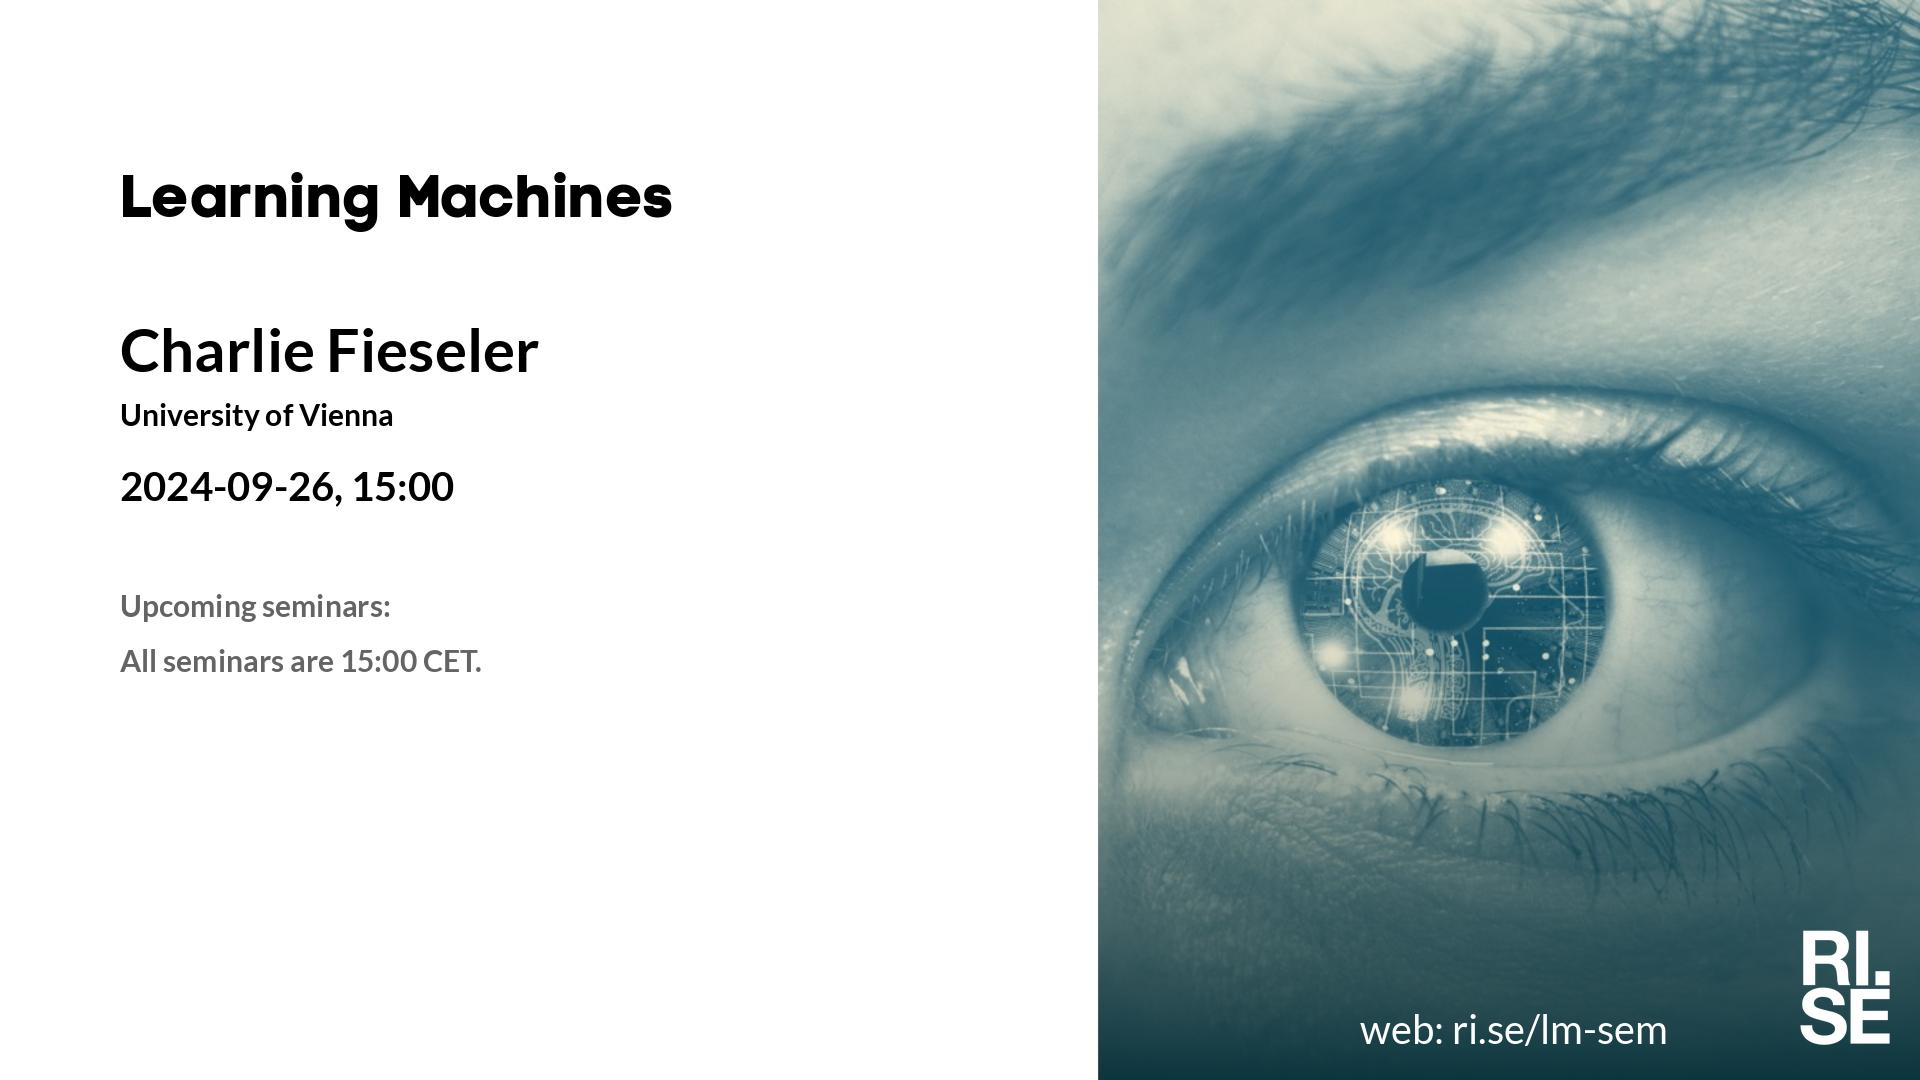
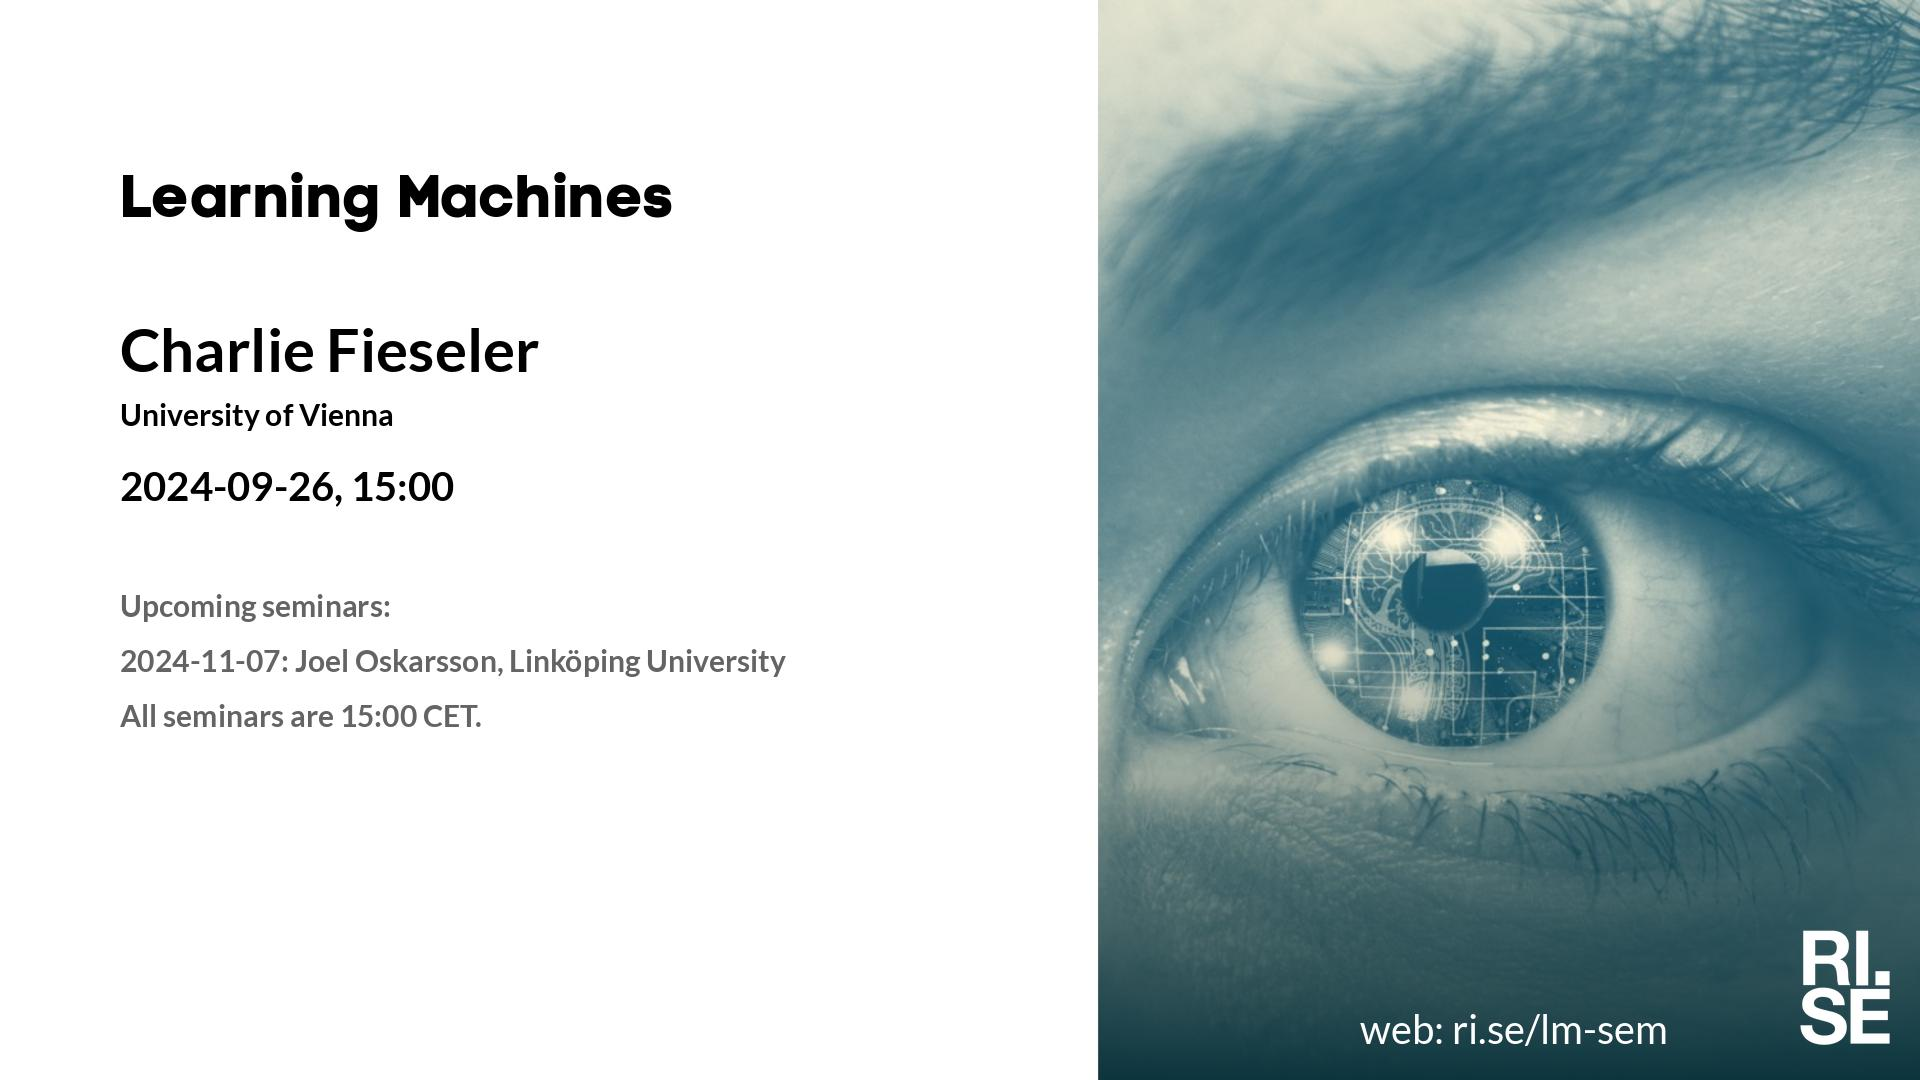
Updated plan on web site.

Changed region(s): [[0.0625, 0.5806, 0.4062, 0.6722]]

diff --git a/lm/index.md b/lm/index.md
@@ -15,7 +15,7 @@ table {border-collapse: collapse;}
 |  2024-09-12  |  [Vésteinn Snæbjarnarson, Pioneer Centre for Artificial Intelligence](2024-09-12.md)  |  [photo](photo-vesteinn-snaebjarnarson.jpg)  |  [social media ](social-media-vesteinn-snaebjarnarson.jpg)  |  [meeting backdrop ](meeting-backdrop-vesteinn-snaebjarnarson.jpg)  |  [youtube thumbnail ](youtube-thumbnail-vesteinn-snaebjarnarson.jpg)  |  S~~TAB~~P  |
 |  2024-09-19  |  [Mélisande Teng, MILA and Universite de Montreal](2024-09-19.md)  |    |  [social media ](social-media-melisande-teng.jpg)  |  [meeting backdrop ](meeting-backdrop-melisande-teng.jpg)  |  [youtube thumbnail ](youtube-thumbnail-melisande-teng.jpg)  |  S~~TABP~~  |
 |  2024-09-26  |  [Charlie Fieseler, University of Vienna](2024-09-26.md)  |    |  [social media ](social-media-charlie-fieseler.jpg)  |  [meeting backdrop ](meeting-backdrop-charlie-fieseler.jpg)  |  [youtube thumbnail ](youtube-thumbnail-charlie-fieseler.jpg)  |  S~~TABP~~  |
-| <span style="color:grey"> 2024-10-03 </span> | <span style="color:grey"> Milena P. ? </span> | <span style="color:grey">  </span> | <span style="color:grey">  </span> | <span style="color:grey">  </span> | <span style="color:grey">  </span> | <span style="color:grey"> S~~TABP~~ </span> |
+| <span style="color:purple"> 2024-10-03 </span> | <span style="color:purple"> *Up for grabs!!!* </span> | <span style="color:purple">  </span> | <span style="color:purple">  </span> | <span style="color:purple">  </span> | <span style="color:purple">  </span> | <span style="color:purple"> ~~STABP~~ </span> |
 | <span style="color:grey"> 2024-10-10 </span> | <span style="color:grey"> Alp K. ? </span> | <span style="color:grey">  </span> | <span style="color:grey">  </span> | <span style="color:grey">  </span> | <span style="color:grey">  </span> | <span style="color:grey"> S~~TABP~~ </span> |
 | <span style="color:grey"> 2024-10-17 </span> | <span style="color:grey"> Matthias O. ? </span> | <span style="color:grey">  </span> | <span style="color:grey">  </span> | <span style="color:grey">  </span> | <span style="color:grey">  </span> | <span style="color:grey"> S~~TABP~~ </span> |
 | <span style="color:grey"> 2024-10-24 </span> | <span style="color:grey"> Ekaterina S. ? </span> | <span style="color:grey">  </span> | <span style="color:grey">  </span> | <span style="color:grey">  </span> | <span style="color:grey">  </span> | <span style="color:grey"> S~~TABP~~ </span> |

diff --git a/lm/2024-09-12.md b/lm/2024-09-12.md
@@ -22,6 +22,7 @@ Welcome to this week's Learning Machines seminar.
 
 * 2024-09-19: Mélisande Teng, MILA and Universite de Montreal
 * 2024-09-26: Charlie Fieseler, University of Vienna
+* 2024-11-07: Joel Oskarsson, Linköping University
 * All seminars are 15:00 CET.
 
 More information and coming seminars: [https://ri.se/lm-sem](https://ri.se/lm-sem)

diff --git a/lm/2024-09-19.md b/lm/2024-09-19.md
@@ -21,6 +21,7 @@ Welcome to this week's Learning Machines seminar.
 **Upcoming seminars:**
 
 * 2024-09-26: Charlie Fieseler, University of Vienna
+* 2024-11-07: Joel Oskarsson, Linköping University
 * All seminars are 15:00 CET.
 
 More information and coming seminars: [https://ri.se/lm-sem](https://ri.se/lm-sem)

diff --git a/lm/2024-09-26.md b/lm/2024-09-26.md
@@ -20,6 +20,7 @@ Welcome to this week's Learning Machines seminar.
 
 **Upcoming seminars:**
 
+* 2024-11-07: Joel Oskarsson, Linköping University
 * All seminars are 15:00 CET.
 
 More information and coming seminars: [https://ri.se/lm-sem](https://ri.se/lm-sem)
